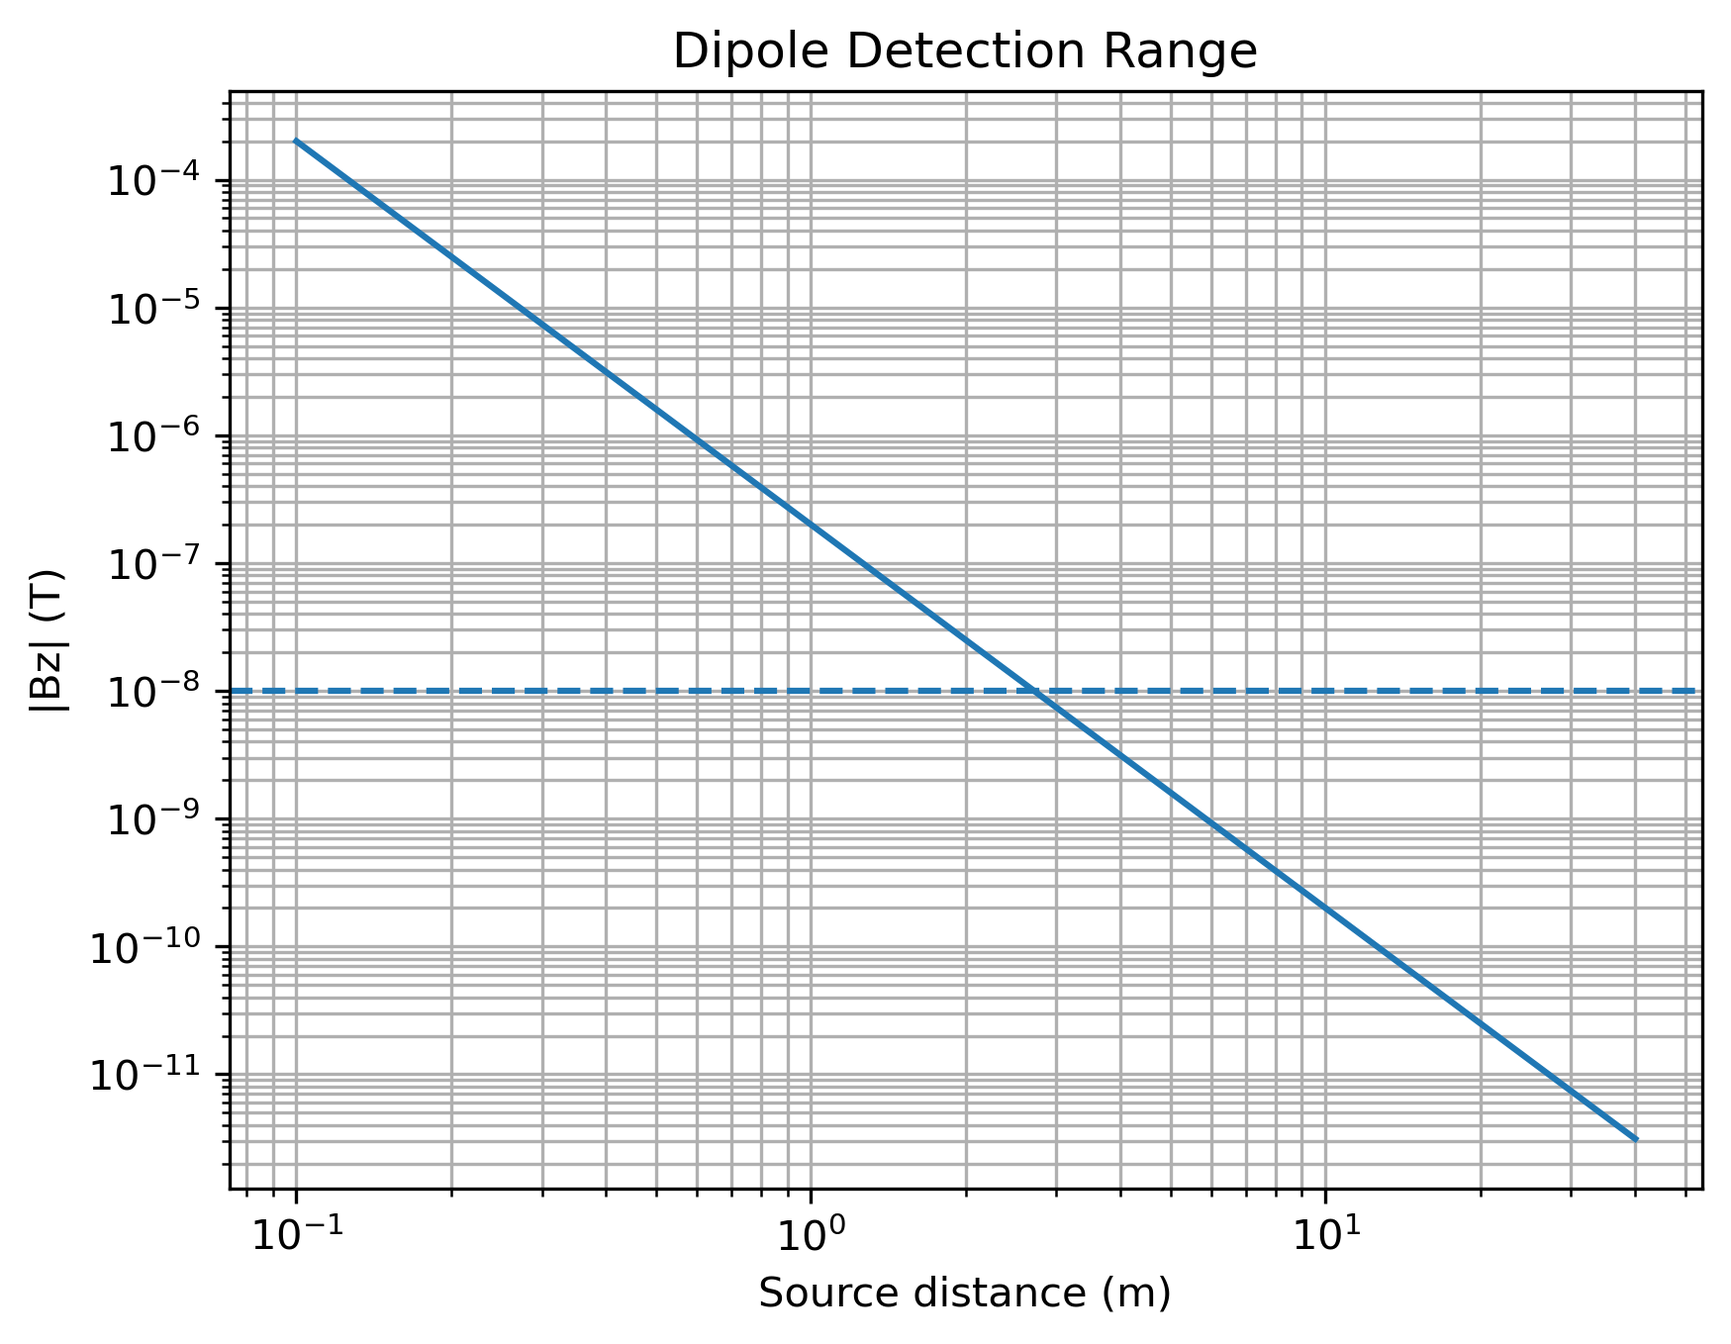
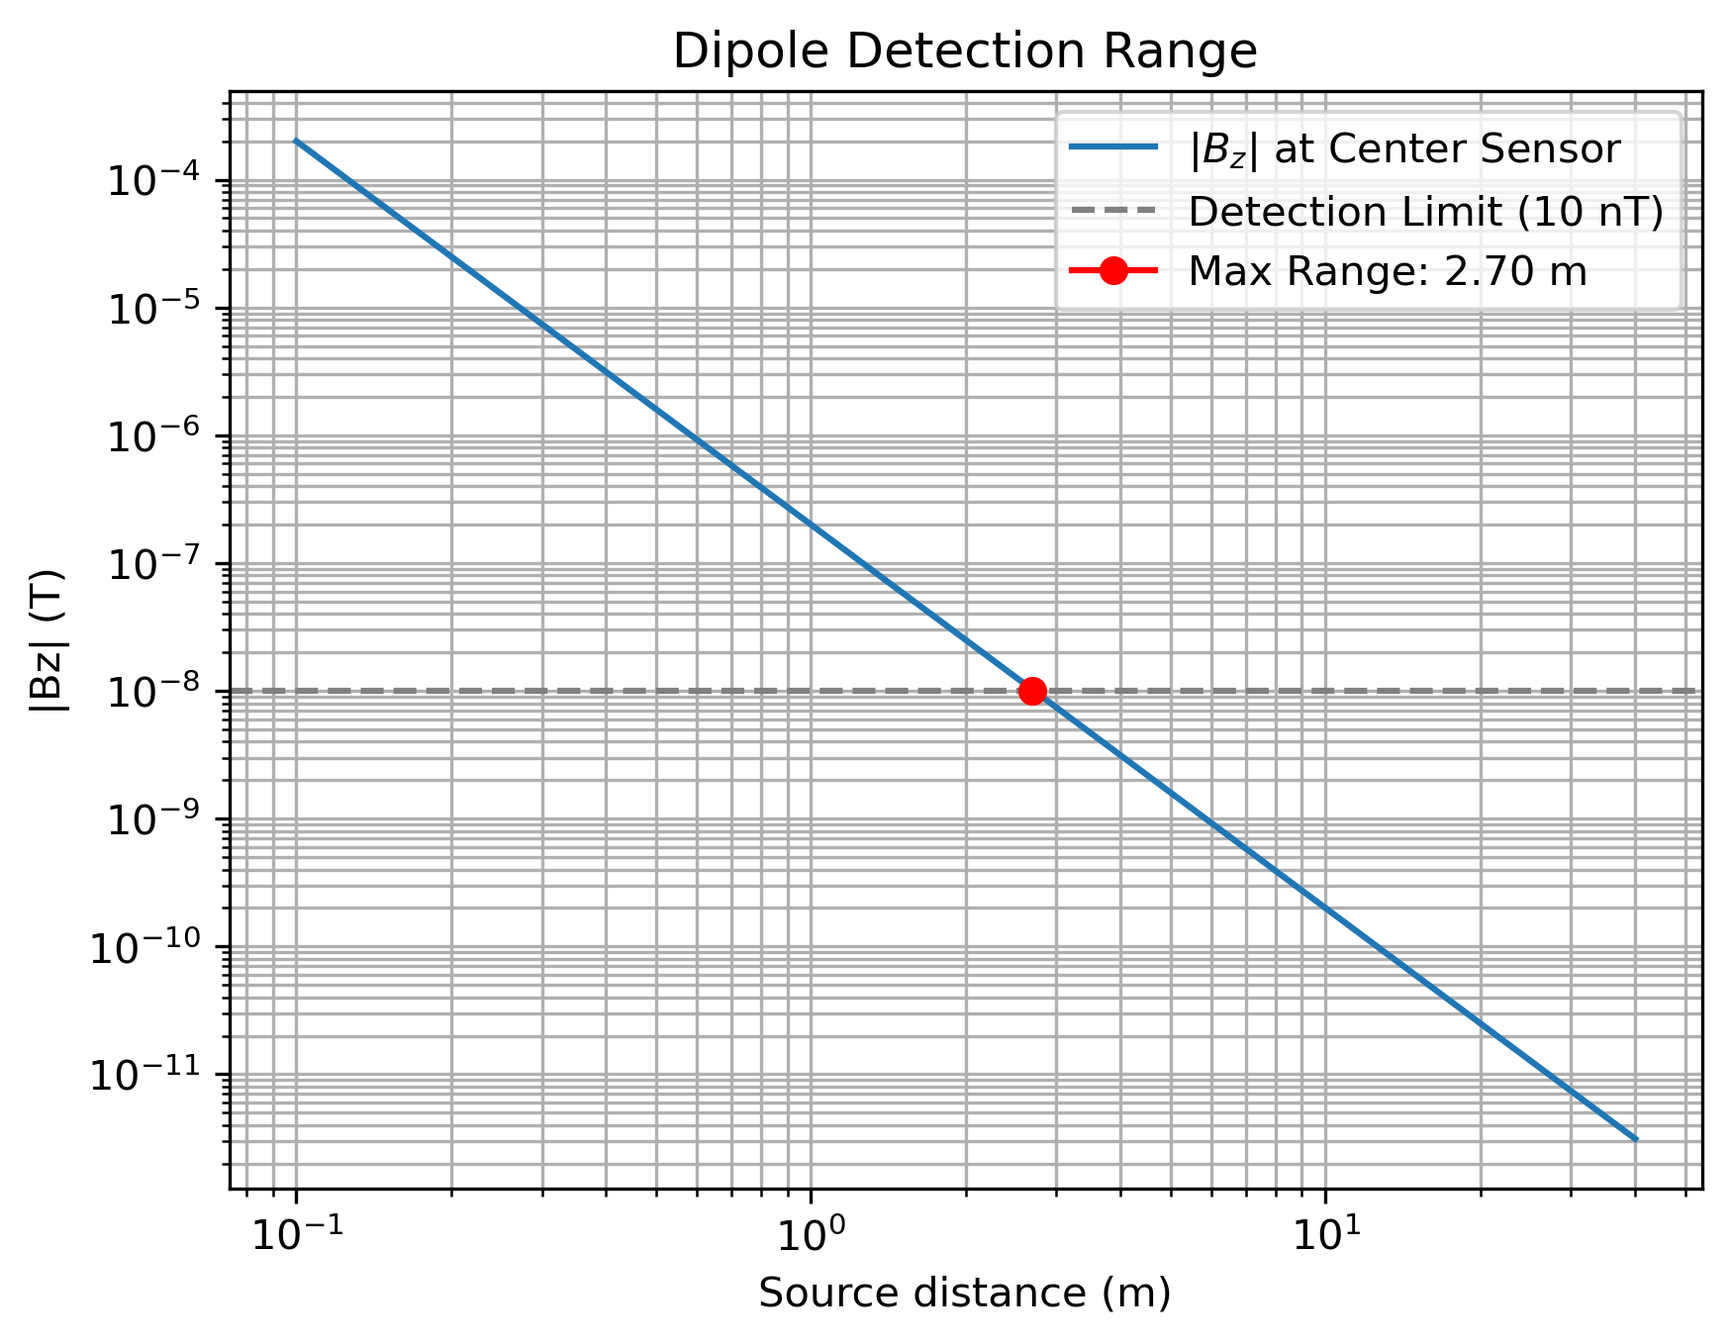
Update README with physical equations, output clarifications, and plot enhancements
- Add dipole field equations and 1/r^3 scaling to README
- Add CRLB localization equations to README
- Add intersection marker to detection_range.py and plot
- Add Source A/B legend to sensor_measurements plot in motion_breaks_ambiguity.py
- Clarify singular value indices, aperture scale invariance, and static ambiguity

diff --git a/experiments/detection_range.py b/experiments/detection_range.py
@@ -49,17 +49,32 @@ else:
 # Plot
 plt.figure()
 
-plt.loglog(distances, center_bz)
-plt.axhline(detection_limit, linestyle="--")
+plt.loglog(distances, center_bz, label=r"$|B_z|$ at Center Sensor")
+plt.axhline(detection_limit, linestyle="--", color="gray", label=f"Detection Limit ({detection_limit * 1e9:.0f} nT)")
+
+if np.any(above_limit):
+    plt.plot(
+        max_detectable_distance,
+        detection_limit,
+        marker="o",
+        color="red",
+        markersize=6,
+        label=f"Max Range: {max_detectable_distance:.2f} m"
+    )
 
 plt.xlabel("Source distance (m)")
 plt.ylabel("|Bz| (T)")
 plt.title("Dipole Detection Range")
+plt.legend()
 
 plt.grid(True, which="both")
 
+import os
+figure_dir = "figures/detection_range"
+os.makedirs(figure_dir, exist_ok=True)
+
 plt.savefig(
-    "detection_range.png",
+    f"{figure_dir}/detection_range.png",
     dpi=300,
     bbox_inches="tight"
 )

diff --git a/experiments/motion_breaks_ambiguity.py b/experiments/motion_breaks_ambiguity.py
@@ -237,6 +237,14 @@ plt.xlabel("Array x position (m)")
 plt.ylabel("Bz (nT)")
 plt.title("Sensor Measurements During Array Translation")
 plt.grid(True, alpha=0.3)
+
+from matplotlib.lines import Line2D
+custom_lines = [
+    Line2D([0], [0], color="black", linestyle="-", label="Source A (centered vertical)"),
+    Line2D([0], [0], color="black", linestyle="--", label="Source B (off-center tilted)")
+]
+plt.legend(handles=custom_lines, loc="upper right")
+
 plt.tight_layout()
 
 plt.savefig(

diff --git a/README.md b/README.md
@@ -13,6 +13,28 @@ The scripts currently save figures using relative filenames. Run a script from t
 
 ## Common Concepts
 
+### Dipole Field Equations & 1/r³ Scaling
+
+The core physical model is an ideal point magnetic dipole:
+
+$$\mathbf{B}(\mathbf{r}) = \frac{\mu_0}{4\pi}\left( \frac{3(\mathbf{m}\cdot\mathbf{r})\mathbf{r}}{r^5} - \frac{\mathbf{m}}{r^3} \right)$$
+
+where $\mathbf{r} = \mathbf{r}_{\mathrm{sensor}} - \mathbf{r}_{\mathrm{source}}$, $r = \|\mathbf{r}\|_2$, and $\mu_0 / (4\pi) = 10^{-7}\text{ T}\cdot\text{m/A}$.
+
+For a vertical dipole ($\mathbf{m} = [0, 0, m]$) on the z-axis, the vertical field component $B_z$ directly on-axis decays as an inverse-cube:
+
+$$B_z = \frac{\mu_0}{4\pi}\frac{2m}{z^3}$$
+
+Field magnitude decays as $1/r^3$, while spatial field gradients across the array decay as $1/r^4$. Consequently, spatial localization information diminishes significantly faster with distance than absolute signal strength.
+
+### Localization Uncertainty (Fisher Information & CRLB)
+
+When estimating source position $\mathbf{r} = [x, y, z]^T$ with known moment and independent sensor noise $\sigma_B$, the Fisher Information Matrix (FIM) and Cramér-Rao Lower Bound (CRLB) covariance are:
+
+$$F = \frac{1}{\sigma_B^2} J^T J, \quad \mathbf{C}_{\mathbf{r}} = F^{-1} = \sigma_B^2 (J^T J)^{-1}$$
+
+where $J = \frac{\partial \mathbf{B}_z}{\partial [x, y, z]} \in \mathbb{R}^{9 \times 3}$. The 1-sigma 3D position uncertainty is $\sigma_{\mathrm{pos}} = \sqrt{\mathrm{Tr}(\mathbf{C}_{\mathbf{r}})}$, which scales linearly with sensor noise $\sigma_B$.
+
 ### Detection
 
 A source is detectable when at least one sensor has a vertical field magnitude above the configured hardware threshold. Most experiments use:
@@ -55,135 +77,107 @@ The sensing-volume experiment combines both tests:
 
 Output directory: `figures/visualize_bz_field/`
 
-- `bfield.png`: heatmap of `Bz` over a 3 x 3 sensor array for one fixed dipole position and orientation.
-
-This is a basic field-pattern sanity check. It does not measure detection range or inversion quality.
+- `bfield.png`: heatmap of $B_z$ measured across the 3 x 3 sensor array for a vertical dipole ($m = 1\text{ A}\cdot\text{m}^2$ along $+z$) positioned at height $z = 0.20\text{ m}$ (20 cm) directly above the array center $(0, 0, 0)$. The 3 x 3 pixel grid directly represents the discrete vertical field component $B_z$ at each of the 9 sensors.
 
 ### `distance_sweep.py`
 
 Output directory: `figures/distance_sweep/`
 
-- `distance_sweep.png`: center-sensor field magnitude versus source distance.
-- `spatial_variation.png`: difference between the maximum and minimum field across the array versus distance.
-
-These plots show dipole-field decay and how spatial variation, which carries localization information, decreases with distance. The script also fits the field decay on log-log axes and compares it with the expected inverse-cube behavior.
+- `distance_sweep.png`: center-sensor field magnitude versus source distance, confirming the expected $1/r^3$ dipole field decay (fitted log-log slope $-3.0000$).
+- `spatial_variation.png`: difference between maximum and minimum field across the array ($\max B_z - \min B_z$) versus distance, illustrating that spatial gradient information decays as $1/r^4$.
 
 ### `detection_range.py`
 
 Output directory: `figures/detection_range/`
 
-- `detection_range.png`: center-sensor `|Bz|` versus distance with the detection threshold marked.
-
-The threshold crossing gives the maximum detection distance for one fixed dipole moment and array configuration. This is a signal-strength result, not a conditioning result.
+- `detection_range.png`: center-sensor $|B_z|$ versus distance with the 10 nT detection threshold marked. A marker highlights the intersection point at $z = 2.70\text{ m}$ (analytical: 2.714 m), where the center sensor drops below hardware detection limits.
 
 ### `moment_sweep.py`
 
 Output directory: `figures/moment_sweep/`
 
-- `moment_sweep.png`: maximum detection range versus dipole moment magnitude.
-
-Stronger moments produce stronger fields and longer detection ranges. The expected dipole scaling is approximately:
-
-```text
-maximum range proportional to moment magnitude^(1/3)
-```
-
-The script fits a log-log slope to check this relationship.
+- `moment_sweep.png`: maximum detection range versus dipole moment magnitude ($10^{-3}$ to $10^3\text{ A}\cdot\text{m}^2$). Confirms the theoretical cube-root scaling $r_{\mathrm{det}} \propto m^{1/3}$ (fitted log-log slope $0.3350$).
 
 ### `spacing_sweep.py`
 
 Output directory: `figures/spacing_sweep/`
 
-- `spacing_detection_range.png`: maximum detection distance versus sensor spacing.
+- `spacing_detection_range.png`: maximum detection distance versus physical sensor spacing for vertical ($0^\circ$) and horizontal ($90^\circ$) dipoles.
 
-The plot compares vertical and horizontal dipole orientations. It asks how physical sensor spacing affects the distance at which the array can detect a source. It does not calculate Jacobian conditioning.
+For vertical dipoles, the peak field across the array always occurs at the center sensor $(0, 0, 0)$. Because the center sensor's position is fixed regardless of sensor spacing $s$, the detection distance remains invariant at $2.714\text{ m}$. For horizontal dipoles, $B_z = 0$ along the z-axis by symmetry; detection relies entirely on off-axis outer sensors, which expand outward with wider spacing, increasing detection range from 0.74 m to 2.05 m.
 
 ### `operating_range.py`
 
 Output directory: `figures/operating_range/`
 
-- `orientation_detection_range.png`: maximum detectable distance versus dipole orientation, from vertical (`0` degrees) to horizontal (`90` degrees).
-- `orientation_field_ratio.png`: map of `log10(max(|Bz|) / threshold)` over distance and orientation.
-
-In the field-ratio map, values above zero exceed the detection threshold and values below zero are undetectable. These are orientation-dependent detection plots; they do not evaluate source-parameter conditioning.
-
-The same directory also contains older outputs named `operating_range.png` and `operating_range_field.png`.
+- `orientation_detection_range.png`: maximum detectable distance versus dipole orientation tilt angle, from vertical ($0^\circ$) to horizontal ($90^\circ$).
+- `orientation_field_ratio.png`: 2D heatmap of $\log_{10}(\max|B_z| / B_{\mathrm{threshold}})$ with two swept independent variables: source distance $z$ (horizontal axis) and dipole tilt angle $\theta$ (vertical axis). Values above 0 exceed the 10 nT threshold; the dashed black contour at 0 marks the detection threshold boundary.
 
 ### `jacobian_analysis.py`
 
 Output directory: `figures/jacobian_analysis/`
 
-- `jacobian_singular_values.png`: singular values of the measurement Jacobian at one selected source configuration.
+- `jacobian_singular_values.png`: singular values of the measurement Jacobian at fixed source configuration ($z = 0.20\text{ m}$, $m = 1\text{ A}\cdot\text{m}^2$ along $+z$).
 
-A small singular value identifies a weak parameter combination. A large gap between the largest and smallest singular values indicates poor conditioning. This is a local diagnostic rather than a spatial sweep.
+**Note on Singular Value Index:** The index (1 through 6) does **not** correspond to individual parameters ($x, y, z, m_x, m_y, m_z$). SVD decomposes the Jacobian into ordered principal sensitivity modes $\sigma_1 \ge \dots \ge \sigma_6$. Each singular value represents an orthogonal linear combination of parameters (right singular vector $\mathbf{v}_i$): $\sigma_1$ is predominantly vertical position $z$, $\sigma_2$ and $\sigma_3$ correspond to lateral positions $(x, y)$, $\sigma_4$ corresponds to vertical moment $m_z$, and $\sigma_5, \sigma_6$ represent transverse moment tilts $(m_x, m_y)$, which are the weakest observable directions by over four orders of magnitude.
 
 ### `aperture_observability.py`
 
 Output directory: `figures/aperture_observability/`
 
-- `aperture_condition_number.png`: normalized condition number versus aperture-to-depth ratio, `L/z`.
-- `aperture_smallest_singular_value.png`: smallest normalized singular value versus `L/z`.
+- `aperture_condition_number.png`: normalized condition number versus aperture-to-depth ratio $L/z$, for a fixed source depth $z = 0.20\text{ m}$ (20 cm) and swept aperture $L = 2s \in [0.01, 2.0]\text{ m}$.
+- `aperture_smallest_singular_value.png`: smallest normalized singular value versus $L/z$ at fixed $z = 0.20\text{ m}$.
 
-The experiment varies array aperture while keeping source depth fixed. It asks how large the array should be relative to source distance for local observability. Lower condition number and higher smallest singular value are favorable.
+Conditioning exhibits a convex minimum around $L/z \approx 1.0 - 2.0$. Arrays that are too small ($L/z \ll 1$) cannot resolve spatial derivatives, while arrays that are too large ($L/z \gg 2$) place outer sensors too far away into noise.
 
 ### `aperture_robustness.py`
 
 Output directory: `figures/aperture_robustness/`
 
-- `robustness_best_condition.png`: best condition number anywhere in the lateral source region.
+- `robustness_best_condition.png`: best condition number anywhere in the lateral region ($x/z, y/z \in [-2, 2]$).
 - `robustness_median_condition.png`: median condition number across the region.
-- `robustness_good_fraction.png`: fraction of the region with `kappa < 100`.
+- `robustness_good_fraction.png`: fraction of the region with $\kappa < 100$.
 
-Each curve represents a different source depth. The good-fraction plot is usually the most useful design summary because it measures how much of the operating region is well conditioned rather than showing only a best-case location.
+**Why Curves Overlap:** Curves for different depths $z$ overlap perfectly because the normalized Jacobian condition number is dimensionless and scale-invariant. When lateral coordinates and array aperture are scaled proportionally to depth ($L/z = \mathrm{const}, x/z = \mathrm{const}$), physical scale $z$ cancels completely in the singular value ratio $\kappa = \sigma_{\max} / \sigma_{\min}$. Plotting across multiple depths proves that observability is governed strictly by the dimensionless ratio $L/z$, not absolute size.
 
 ### `scaled_aperture_observability.py`
 
 Output directory: `figures/scaled_aperture_observability/`
 
-- `scaled_best_condition.png`: best condition number versus `L/z`.
-- `scaled_best_smallest_sv.png`: best smallest singular value versus `L/z`.
+- `scaled_best_condition.png`: best condition number versus $L/z$.
+- `scaled_best_smallest_sv.png`: best smallest singular value versus $L/z$.
 
-This experiment scales array aperture and source depth together. It tests whether observability is primarily controlled by the dimensionless geometry ratio `L/z`, rather than by absolute physical size.
+Mathematically, array aperture and lateral search coordinates are scaled proportionally to depth ($L = \mathrm{ratio} \cdot z$, $x = (x/z) \cdot z$). The resulting condition numbers are mathematically identical across all depths $z$ (e.g., $\kappa = 22.258$ at $L/z = 2.0$), confirming scale invariance.
 
 ### `observability_map.py`
 
 Output directory: `figures/observability_map/`
 
-Each figure is an `x-y` cross-section at a fixed source depth `z`.
+Each figure is an x-y cross-section at fixed depth $z \in \{0.10, 0.20, 0.50, 1.00\}\text{ m}$.
 
-- `observability_condition_z*.png`: heatmap of `log10(kappa)`. Lower values are better conditioned.
-- `observability_smallest_sv_z*.png`: heatmap of `log10(sigma_min)`. Higher values indicate stronger weakest-direction observability.
-- `detectability_z*.png`: heatmap of `log10(max(|Bz|) / threshold)`. Positive values exceed the threshold.
-- `detection_region_z*.png`: binary detectable/not-detectable mask.
-- `practical_observability_z*.png`: combined mask requiring detection and `kappa <= 100`.
+- `observability_condition_z*.png`: heatmap of $\log_{10}(\kappa)$.
+- `observability_smallest_sv_z*.png`: heatmap of $\log_{10}(\sigma_{\min})$.
+- `detectability_z*.png`: heatmap of $\log_{10}(\max|B_z| / B_{\mathrm{threshold}})$.
+- `detection_region_z*.png`: binary detectable mask.
+- `practical_observability_z*.png`: combined mask requiring detection and $\kappa \le 100$.
 
-These plots separate signal strength from parameter-estimation quality and then show the combined usable region. The `z` value is encoded in each filename.
-
-The older `observability_rank_z*.png` files are in `figures/observability_map/legacy/`. They show numerical Jacobian rank and are not generated by the current version of the script.
+Detection masks are uniformly 1 because a $1\text{ A}\cdot\text{m}^2$ dipole produces signals $> 10\text{ nT}$ across the entire $1\text{ m} \times 1\text{ m}$ region at these depths. However, practical observability ($\kappa \le 100$) drops to 0% beyond $z = 0.30\text{ m}$ for this 20 cm aperture array. Note: simulations use the ideal point dipole approximation; finite-magnet multipole near-field effects (relevant when $z \lesssim \text{magnet size}$) are not modeled.
 
 ### `moment_aperture_tradeoff.py`
 
 Output directory: `figures/moment_aperture_tradeoff/`
 
-- `moment_tradeoff_z*.png`: fraction of the lateral region that is both detectable and well conditioned versus `L/z`.
+- `moment_tradeoff_z*.png`: fraction of lateral area both detectable and well conditioned ($\kappa \le 100$) versus $L/z$.
 
-Each plot corresponds to one source depth, and each curve corresponds to a different moment magnitude. These figures combine source strength and array geometry into a practical design tradeoff.
+Curves for small moments ($m \le 10^{-2}\text{ A}\cdot\text{m}^2$) at depths $z \ge 0.5\text{ m}$ are identically zero because the dipole field drops below 10 nT across the entire lateral area.
 
 ### `sensing_volume.py`
 
 Output directory: `figures/sensing_volume/`
 
-- `sensing_m*_z*.png`: `x-y` classification slices for one moment magnitude and one source depth.
+- `sensing_m*_z*.png`: 3D volumetric slices classified into Class 0 (not detectable), Class 1 (detectable, $\kappa > 100$), and Class 2 (detectable, $\kappa \le 100$).
 
-The color classes are the combined detection and conditioning result:
-
-```text
-0 = not detectable
-1 = detectable but poorly conditioned
-2 = detectable and well conditioned
-```
-
-These are the most complete spatial figures because they show where a source can both produce a measurable signal and be estimated reliably. The moment magnitude and depth are encoded in each filename.
+Well-conditioned points (Class 2) only appear close to the array ($z \le 0.4\text{ m}$, such as $z = 0.05\text{ m}$) because for a fixed 20 cm array, depths $z > 0.4\text{ m}$ have $L/z < 0.5$, which is geometrically too narrow to achieve $\kappa \le 100$ anywhere in space.
 
 ### `aperture_depth_ratio_sweep.py`
 
@@ -192,13 +186,15 @@ Output directory: `figures/aperture_depth_ratio_sweep/`
 - `aperture_depth_median_uncertainty.png`: median 1-sigma 3D position uncertainty versus aperture-to-depth ratio $L/z$.
 - `aperture_depth_p90_uncertainty.png`: 90th percentile position uncertainty versus $L/z$.
 
-These plots evaluate Cramer-Rao lower bounds on 3D source localization error, confirming that normalized localization sensitivity is scale-invariant with respect to $L/z$.
+Evaluates Cramér-Rao lower bounds on 3D localization error derived from the Fisher Information Matrix $F = \frac{1}{\sigma_B^2} J^T J$ and covariance $\mathbf{C} = F^{-1}$.
 
 ### `localization_aperture_map.py`
 
 Output directory: `figures/localization_aperture_map/`
 
 - `localization_z*.png`: 2D lateral heatmaps comparing 3D position uncertainty across physical array apertures ($L = 0.05$ to $0.80\text{ m}$) at fixed source depth $z$. Contours mark 5 cm and 10 cm uncertainty thresholds.
+
+Heatmaps appear visually uniform at low depth ($z = 0.10\text{ m}$) because uncertainties are sub-millimeter on the fixed $0 - 50\text{ cm}$ color scale (dark purple), whereas at $z = 1.00\text{ m}$ uncertainties exceed 50 cm across much of the plane and clip to the upper color limit.
 
 ### `find_static_ambiguity.py`
 
@@ -207,6 +203,8 @@ Output directory: `figures/find_static_ambiguity/`
 - `static_ambiguity_map.png`: heatmap of relative residual RMSE across candidate source locations when fitting the best magnetic moment to match a centered vertical dipole.
 - `ambiguity_pair.npz`: saved reference and candidate dipole parameters demonstrating sub-threshold (3.07 nT) measurement residuals.
 
+Calculates measurement RMSE across all 9 sensors between a reference vertical dipole at $(0, 0, 0.50)\text{ m}$ and candidate dipoles at $(x, y, 0.50)\text{ m}$ with optimal least-squares moment fitting. The central blank circle is an intentional 5 cm exclusion radius around the reference source to prevent trivial self-matching ($\Delta r \to 0$).
+
 ### `motion_breaks_ambiguity.py`
 
 Output directory: `figures/motion_breaks_ambiguity/`
@@ -214,12 +212,16 @@ Output directory: `figures/motion_breaks_ambiguity/`
 - `measurement_separation.png`: measurement RMSE between the statically ambiguous dipole pair as the array translates laterally.
 - `sensor_measurements.png`: individual sensor traces demonstrating how array motion breaks static degeneracy.
 
+Simulates array translation along x (quasi-static spatial synthetic aperture). Solid lines represent sensors 0 through 8 for Source A (centered vertical), and dashed lines represent Source B (off-center tilted). At $x = 0$, both sources produce nearly identical measurements ($<3.07\text{ nT}$ RMSE); as the array translates, measurements diverge by over $102\text{ nT}$.
+
 ### `moving_array_observability.py`
 
 Output directory: `figures/moving_array_observability/`
 
 - `singular_values.png`: normalized singular values $\sigma_1$ through $\sigma_6$ for static, z-translation, and x-translation array trajectories.
 - `condition_numbers.png`: comparison of normalized Jacobian condition numbers across motion modes.
+
+Evaluates a multi-pose stacked Jacobian ($189 \times 6$) formed by accumulating 21 array poses along a trajectory. Translation along z elevates the weakest normalized singular value by $21.7\times$ (from $2.26 \times 10^{-8}$ to $4.89 \times 10^{-7}$), reducing the normalized condition number from 530 to 136.
 
 ## How to Read the Results
 
